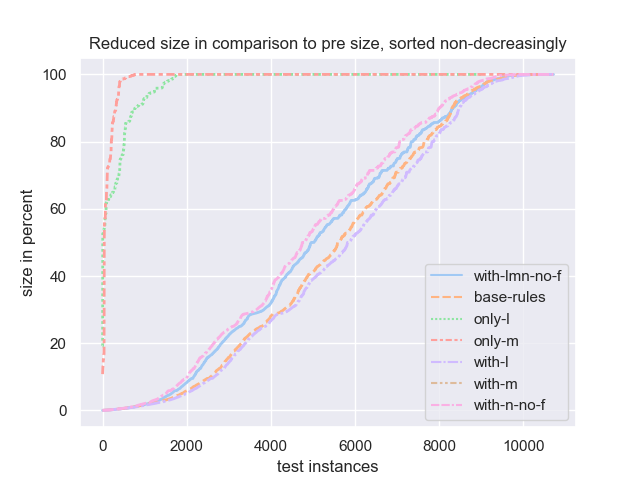
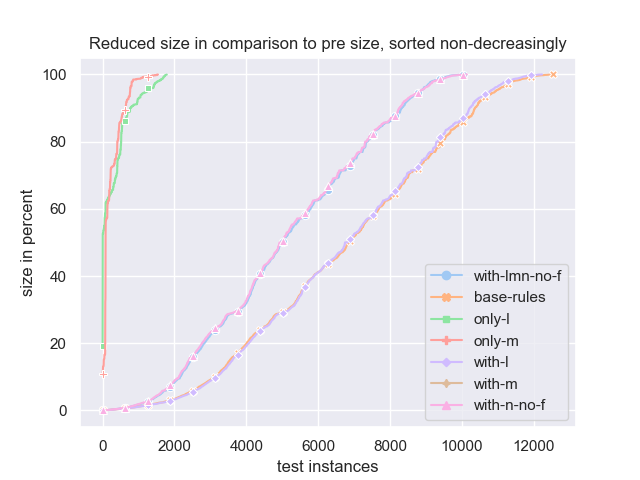
fixes reduce_size

diff --git a/graph_utility/reduced_size.py b/graph_utility/reduced_size.py
@@ -38,22 +38,20 @@ def plot(data_list, test_names, graph_dir):
             reduced_size = ((post_size / pre_size) * 100) if post_size > 0 else np.nan
             reduced_sizes_list.append(reduced_size)
 
-        # This block should remove all -1 in the reduced_sizes_list
-        pre_filter_size = len(reduced_sizes_list)
-        reduced_sizes_list = [size for size in reduced_sizes_list if not np.isnan(size)]
-        post_filter_size = len(reduced_sizes_list)
+        # This block should remove all np.nan in the reduced_sizes_list
+        reduced_sizes_list = [size for size in reduced_sizes_list if (np.isfinite(size) and size < 100)]
+        reduced_sizes_list.sort()
+        reduced_frame = pd.DataFrame(reduced_sizes_list, columns=[f'{test_names[test_index]}'])
+        reduced_sizes = pd.concat([reduced_sizes, reduced_frame], axis=1)
 
-        reduced_sizes[f'{test_names[test_index]}'] = pd.Series(reduced_sizes_list, dtype='float64')
-        print(
-            f"(reduced_size) Test instances not completed by {test_names[test_index]} that were completed by another experiment: {(pre_filter_size - post_filter_size)}")
-
-    for col in reduced_sizes:
-        reduced_sizes[col] = reduced_sizes[col].sort_values(ignore_index=True)
-    # plot the plot
+    marker_interval = int(len(reduced_sizes.index) / 20)
     sns.set_theme(style="darkgrid", palette="pastel")
-    sns.lineplot(data=reduced_sizes, linewidth=2).set(xlabel='test instances', ylabel='size in percent',
-                                                      yscale="linear",
-                                                      title=f'Reduced size in comparison to pre size, sorted non-decreasingly')
+    plot = sns.lineplot(data=reduced_sizes, markers=True, dashes=False, markevery=marker_interval)
+    plot.set(
+        xlabel='test instances',
+        ylabel='size in percent',
+        yscale="linear",
+        title=f'Reduced size in comparison to pre size, sorted non-decreasingly')
 
     plt.legend(loc='best')
     plt.savefig(graph_dir + 'reduced_size_compared.png')

diff --git a/graph_utility/time_memory.py b/graph_utility/time_memory.py
@@ -55,10 +55,10 @@ def plot(data_list, test_names, graph_dir):
             custom_palette[column] = pal[test_names.index(test_name)]
 
     # Plot the plot
-    plot = sns.lineplot(data=combined_df, linewidth=2.5, palette=custom_palette,
+    plot = sns.lineplot(data=combined_df, palette=custom_palette,
                         dashes=dashes)
     plot.set(
-        title=f'model checking time and memory per model',
+        title=f'model checking time and memory per test instance',
         ylabel='seconds or kB',
         xlabel='test instances', yscale="log")
     plt.legend(bbox_to_anchor=(1.02, 0.55), loc='best', borderaxespad=0)

diff --git a/graph_utility/all_graphs.py b/graph_utility/all_graphs.py
@@ -2,7 +2,6 @@ import os
 import sys
 import copy
 import pandas as pd
-from os import walk
 
 import answer_simplification_bars
 import rule_usage_absolute
